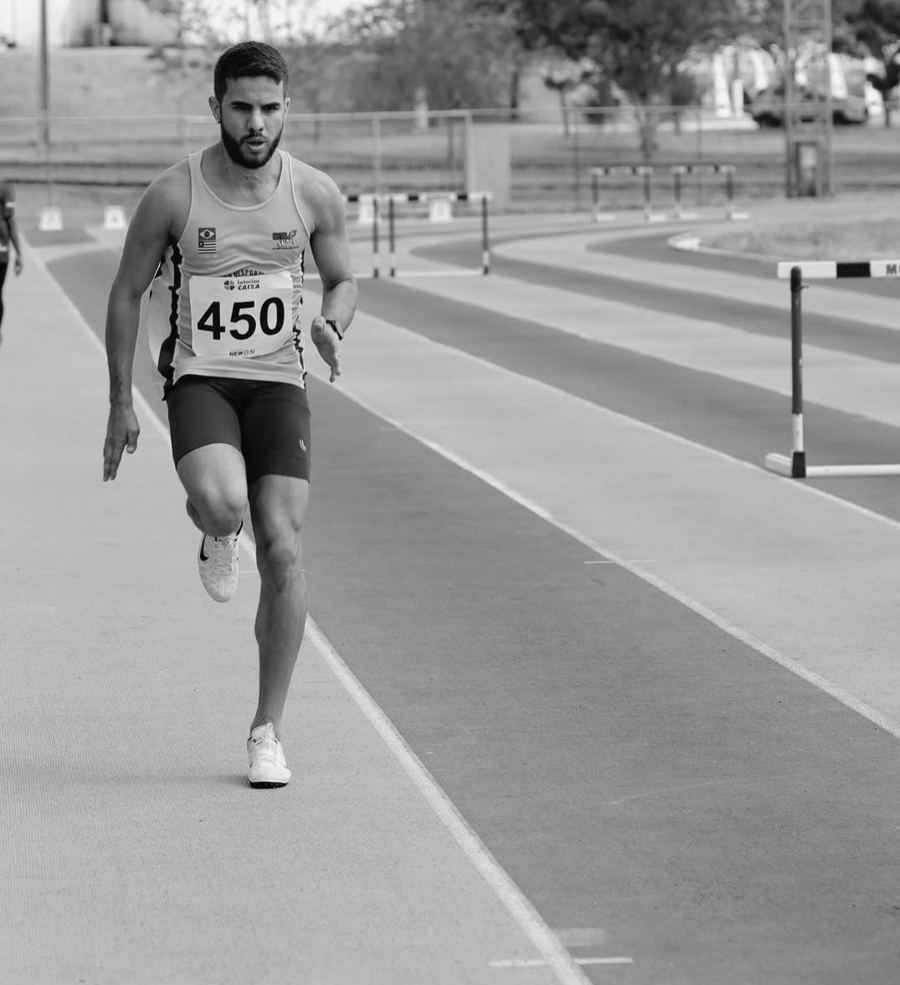
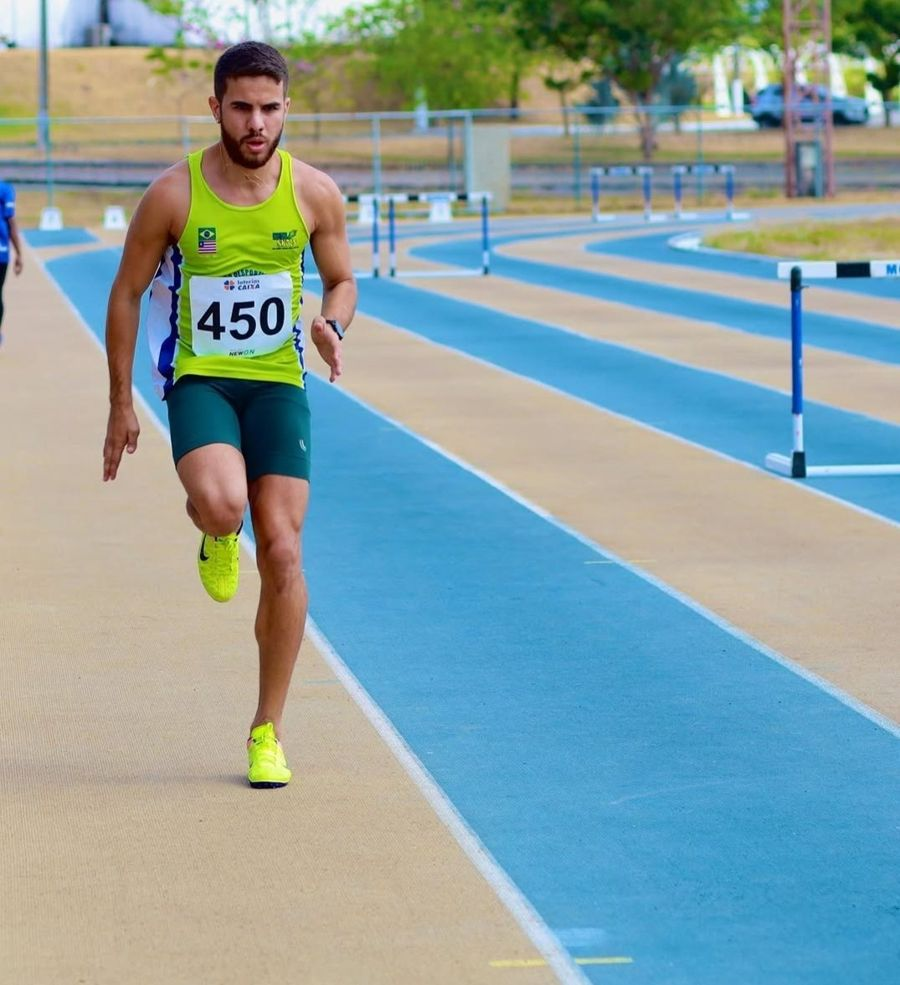
Pré-temporada 2027 em página própria (/pretemporada) no visual do site; removida da página inicial
Claude-Session: https://claude.ai/code/session_01Kib4ttyf7J1XtpYniU8jBV

diff --git a/pretemporada/index.html b/pretemporada/index.html
@@ -1,0 +1,223 @@
+<!doctype html>
+<html lang="pt-BR">
+<head>
+<meta charset="utf-8">
+<meta name="viewport" content="width=device-width, initial-scale=1">
+<title>Pré-temporada Nexos 2027 · Nexos Performance e Saúde</title>
+<meta name="description" content="Pré-temporada Nexos 2027: Bloco de Transição e Base Aeróbica. Início em 1º de janeiro, 8 semanas. Vagas limitadas.">
+<meta name="theme-color" content="#050c1c">
+<meta property="og:type" content="website">
+<meta property="og:title" content="Pré-temporada Nexos 2027">
+<meta property="og:description" content="Bloco de Transição e Base Aeróbica. Início em 1º de janeiro, 8 semanas. Vagas limitadas.">
+<meta property="og:image" content="https://nexosperformanceesaude.com.br/img/pretemporada-og.jpg">
+<link rel="icon" href="/img/nexos-icon-navy.png">
+<link rel="preload" href="/fonts/manrope-latin-400-normal.woff2" as="font" type="font/woff2" crossorigin>
+<link rel="preload" href="/fonts/unbounded-latin-800-normal.woff2" as="font" type="font/woff2" crossorigin>
+<link rel="stylesheet" href="/fonts/fonts.css">
+<link rel="stylesheet" href="/style.css">
+<script>try{var t=localStorage.getItem("nexos-tema");if(t)document.documentElement.dataset.theme=t}catch(e){}</script>
+<style>
+.nav-r{display:flex;align-items:center;gap:10px}
+.theme-btn{width:40px;height:40px;border-radius:12px;border:1px solid var(--line);display:grid;place-items:center}
+.theme-btn svg{width:18px;height:18px}
+.theme-btn .sun{display:none}
+:root[data-theme="light"] .theme-btn .sun{display:block}
+:root[data-theme="light"] .theme-btn .moon{display:none}
+
+.pt-hero{position:relative;min-height:100svh;display:grid;grid-template-columns:1.15fr .85fr;gap:clamp(28px,5vw,64px);align-items:center;padding:120px clamp(16px,6vw,80px) 80px;overflow:hidden;isolation:isolate}
+.pt-hero h1{font-size:clamp(1.7rem,7.2vw,4.4rem);white-space:nowrap}
+@media (min-width:961px){.pt-hero h1{font-size:clamp(2.4rem,4.3vw,4.4rem)}}
+.pt-hero .lead b{color:var(--ink);font-weight:700}
+.pt-info{display:flex;gap:10px;margin-top:34px;flex-wrap:wrap}
+.pt-info .tele b{font-size:1.25rem}
+.pt-garmin{display:flex;align-items:center;gap:12px;margin-top:26px;color:var(--mute);font-size:.82rem}
+.pt-garmin img{height:34px;width:auto}
+.pt-foto{position:relative;border-radius:28px;overflow:hidden;border:1px solid var(--line);aspect-ratio:4/5;box-shadow:0 40px 90px -30px rgba(0,0,0,.6)}
+.pt-foto img{width:100%;height:100%;object-fit:cover;object-position:28% 20%}
+.pt-foto::after{content:"";position:absolute;inset:0;background:linear-gradient(180deg,transparent 45%,rgba(var(--bg-rgb),.85) 100%)}
+.pt-selo{position:absolute;left:18px;right:18px;bottom:18px;z-index:1;display:flex;justify-content:space-between;align-items:flex-end;gap:12px}
+.pt-selo small{display:block;font-family:var(--f-m);font-size:.66rem;letter-spacing:.12em;color:var(--mute);text-transform:uppercase}
+.pt-selo b{font-family:var(--f-h);font-size:1.05rem;color:var(--ink)}
+.pt-selo .vg{font-family:var(--f-m);font-size:.72rem;letter-spacing:.08em;padding:7px 12px;border-radius:999px;border:1px solid rgba(var(--acc-rgb),.5);color:var(--acc);background:rgba(var(--bg-rgb),.6);white-space:nowrap}
+
+.pt-grid{display:grid;grid-template-columns:repeat(3,1fr);gap:16px}
+.pt-it{border:1px solid var(--line);border-radius:22px;padding:26px 24px;background:var(--card);backdrop-filter:blur(8px);transition:border-color .25s,transform .25s}
+.pt-it:hover{border-color:rgba(var(--acc-rgb),.45);transform:translateY(-3px)}
+.pt-ic{width:48px;height:48px;border-radius:14px;display:grid;place-items:center;color:var(--acc);background:rgba(var(--acc-rgb),.1);border:1px solid rgba(var(--acc-rgb),.25);margin-bottom:18px}
+.pt-ic svg{width:24px;height:24px}
+.pt-it h3{font-family:var(--f-h);font-weight:700;font-size:1.02rem;line-height:1.3;margin-bottom:8px}
+.pt-it p{color:var(--mute);font-size:.95rem}
+.pt-mais{border-style:dashed;background:transparent;display:flex;flex-direction:column;justify-content:center;align-items:flex-start}
+.pt-mais h3{font-family:var(--f-h);font-size:1.4rem;color:var(--acc)}
+:root[data-theme="light"] .pt-it:not(.pt-mais){box-shadow:0 10px 40px rgba(11,35,82,.07)}
+
+.pt-passos{display:grid;grid-template-columns:repeat(4,1fr);gap:16px;counter-reset:p}
+.pt-p{position:relative;padding:26px 22px 24px;border-top:2px solid var(--line)}
+.pt-p::before{content:"";position:absolute;left:0;top:-2px;width:46px;height:2px;background:linear-gradient(90deg,var(--acc),var(--acc2));box-shadow:0 0 12px rgba(var(--acc-rgb),.6)}
+.pt-p .num{font-family:var(--f-m);font-size:.8rem;color:var(--acc);letter-spacing:.1em}
+.pt-p h4{font-family:var(--f-h);font-size:1.05rem;margin:10px 0 6px}
+.pt-p p{color:var(--mute);font-size:.95rem}
+
+.pt-tr{display:grid;grid-template-columns:repeat(2,minmax(0,320px));gap:18px;justify-content:start}
+.pt-t{display:flex;align-items:center;gap:16px;border:1px solid var(--line);border-radius:20px;padding:14px;background:var(--card)}
+.pt-t img{width:64px;height:64px;border-radius:50%;object-fit:cover;border:2px solid rgba(var(--acc-rgb),.5)}
+.pt-t b{display:block;font-family:var(--f-h);font-size:.98rem}
+.pt-t small{color:var(--mute)}
+.pt-tr-link{display:inline-block;margin-top:22px;color:var(--acc);font-weight:700}
+
+.pt-final .lead{margin:0 auto}
+.pt-obs{margin-top:16px;color:var(--mute);font-size:.88rem}
+.pt-zap svg{width:20px;height:20px}
+
+@media (max-width:960px){
+  .pt-hero{grid-template-columns:1fr;padding-top:100px}
+  .pt-foto{max-width:460px;aspect-ratio:5/4}
+  .pt-grid{grid-template-columns:repeat(2,1fr)}
+  .pt-passos{grid-template-columns:repeat(2,1fr)}
+}
+@media (max-width:600px){
+  .pt-grid,.pt-passos,.pt-tr{grid-template-columns:1fr}
+  .pt-info .tele{flex:1;min-width:0}
+  .pt-hero .hero-cta .btn{width:100%}
+  .pt-hero .eyebrow{font-size:.66rem;letter-spacing:.05em}
+  .pt-info .tele{padding:10px 12px}
+  .pt-info .tele em{display:block;margin:0}
+}
+</style>
+</head>
+<body>
+<div class="progress" id="progress"></div>
+
+<header class="nav" id="nav">
+  <a href="/" class="brand"><img src="/img/nexos-icon.png" data-logo="nexos-icon" alt=""><span>NEXOS</span></a>
+  <div class="nav-r">
+    <button class="theme-btn" id="theme-btn" aria-label="Trocar tema claro/escuro" title="Trocar cores">
+      <svg class="moon" viewBox="0 0 24 24" fill="none" stroke="currentColor" stroke-width="2" stroke-linecap="round" stroke-linejoin="round"><path d="M21 12.8A9 9 0 1 1 11.2 3a7 7 0 0 0 9.8 9.8z"/></svg>
+      <svg class="sun" viewBox="0 0 24 24" fill="none" stroke="currentColor" stroke-width="2" stroke-linecap="round"><circle cx="12" cy="12" r="4"/><path d="M12 2v2M12 20v2M4.9 4.9l1.4 1.4M17.7 17.7l1.4 1.4M2 12h2M20 12h2M4.9 19.1l1.4-1.4M17.7 6.3l1.4-1.4"/></svg>
+    </button>
+    <a class="btn btn-sm zap" target="_blank" rel="noopener">Quero participar</a>
+  </div>
+</header>
+
+<main>
+<section class="pt-hero">
+  <div class="hero-grid"></div>
+  <div>
+    <p class="eyebrow reveal"><span class="dot"></span>Inscrições abertas · Vagas limitadas</p>
+    <h1 class="reveal"><span class="line">PRÉ&#8209;TEMPORADA</span><span class="line accent">NEXOS 2027</span></h1>
+    <p class="lead reveal"><b>Bloco de Transição e Base Aeróbica.</b> Novo ano, nova temporada. É agora que ela se constrói.</p>
+    <div class="hero-cta reveal">
+      <a class="btn zap pt-zap" target="_blank" rel="noopener"><svg viewBox="0 0 24 24" fill="currentColor" aria-hidden="true"><path d="M12 2a10 10 0 0 0-8.6 15.1L2 22l5-1.3A10 10 0 1 0 12 2zm0 18.2c-1.5 0-3-.4-4.3-1.2l-.3-.2-3 .8.8-2.9-.2-.3A8.2 8.2 0 1 1 12 20.2zm4.5-6.1c-.2-.1-1.5-.7-1.7-.8-.2-.1-.4-.1-.6.1l-.8 1c-.1.2-.3.2-.5.1a6.7 6.7 0 0 1-3.3-2.9c-.2-.4.2-.4.7-1.3.1-.2 0-.3 0-.4l-.8-1.8c-.2-.5-.4-.4-.6-.4h-.5c-.2 0-.4.1-.7.3-.2.3-.9.9-.9 2.2s.9 2.5 1 2.7c.1.2 1.8 2.8 4.5 3.9 1.7.7 2.3.8 3.2.6.5-.1 1.5-.6 1.7-1.2.2-.6.2-1.1.2-1.2-.1-.1-.3-.2-.5-.3z"/></svg>Quero saber os valores</a>
+      <a href="#incluso" class="btn btn-ghost">O que está incluso</a>
+    </div>
+    <div class="pt-info reveal">
+      <div class="tele"><small>INÍCIO</small><b>01/01</b><em>2027</em></div>
+      <div class="tele"><small>DURAÇÃO</small><b>8</b><em>semanas</em></div>
+      <div class="tele"><small>FORMATO</small><b>Online</b><em>no app</em></div>
+    </div>
+    <div class="pt-garmin reveal"><img src="/img/marcas/works-with-garmin-connect.png" width="149" height="34" alt="Works with the app Garmin Connect"><span>Seus treinos chegam direto do relógio para o app Nexos.</span></div>
+  </div>
+  <figure class="pt-foto reveal">
+    <img src="/img/pretemporada.jpg" alt="Gabriel Vinícius, treinador da Nexos, correndo na pista" width="900" height="1200">
+    <figcaption class="pt-selo"><span><small>Temporada</small><b>2027 começa aqui</b></span><span class="vg">VAGAS LIMITADAS</span></figcaption>
+  </figure>
+</section>
+
+<section class="section alt" id="incluso">
+  <div class="sec-head reveal">
+    <p class="tag">01 / O que está incluso</p>
+    <h2>Oito semanas.<br>Acompanhamento completo.</h2>
+  </div>
+  <div class="pt-grid">
+    <article class="pt-it reveal"><div class="pt-ic"><svg viewBox="0 0 24 24" fill="none" stroke="currentColor" stroke-width="2" stroke-linecap="round" stroke-linejoin="round"><path d="M9 11l3 3 8-8"/><path d="M20 12v6a2 2 0 0 1-2 2H6a2 2 0 0 1-2-2V6a2 2 0 0 1 2-2h9"/></svg></div><h3>Avaliação de entrada e de saída</h3><p>Você começa e termina com números. A evolução fica medida, não no achismo.</p></article>
+    <article class="pt-it reveal"><div class="pt-ic"><svg viewBox="0 0 24 24" fill="none" stroke="currentColor" stroke-width="2" stroke-linecap="round" stroke-linejoin="round"><path d="M3 12h4l3-8 4 16 3-8h4"/></svg></div><h3>Planilha individualizada</h3><p>Construída pelas suas zonas de treino e entregue no app Nexos.</p></article>
+    <article class="pt-it reveal"><div class="pt-ic"><svg viewBox="0 0 24 24" fill="none" stroke="currentColor" stroke-width="2" stroke-linecap="round" stroke-linejoin="round"><path d="M6.5 6.5v11M17.5 6.5v11M3 9v6M21 9v6M6.5 12h11"/></svg></div><h3>Treino de força</h3><p>Para prevenir lesões e sustentar a temporada que vem pela frente.</p></article>
+    <article class="pt-it reveal"><div class="pt-ic"><svg viewBox="0 0 24 24" fill="none" stroke="currentColor" stroke-width="2" stroke-linecap="round" stroke-linejoin="round"><path d="M21 15a2 2 0 0 1-2 2H7l-4 4V5a2 2 0 0 1 2-2h14a2 2 0 0 1 2 2z"/><path d="M8 9h8M8 13h5"/></svg></div><h3>Análise de cada treino</h3><p>Cada sessão analisada, com retorno direto do treinador.</p></article>
+    <article class="pt-it reveal"><div class="pt-ic"><svg viewBox="0 0 24 24" fill="none" stroke="currentColor" stroke-width="2" stroke-linecap="round" stroke-linejoin="round"><rect x="2" y="6" width="14" height="12" rx="2"/><path d="M16 10l6-3v10l-6-3"/></svg></div><h3>3 videochamadas por mês</h3><p>Conversa com o treinador para alinhar e ajustar o plano.</p></article>
+    <article class="pt-it reveal"><div class="pt-ic"><svg viewBox="0 0 24 24" fill="none" stroke="currentColor" stroke-width="2" stroke-linecap="round" stroke-linejoin="round"><path d="M3 3v18h18"/><path d="M7 15l4-4 3 3 5-6"/></svg></div><h3>Relatório de evolução</h3><p>E o planejamento da sua temporada 2027.</p></article>
+  </div>
+  <div class="pt-grid" style="margin-top:16px;grid-template-columns:1fr"><article class="pt-it pt-mais reveal"><h3>e muito mais...</h3><p>Os detalhes você recebe na conversa com a equipe.</p></article></div>
+</section>
+
+<section class="section" id="como">
+  <div class="sec-head reveal">
+    <p class="tag">02 / Como funciona</p>
+    <h2>Do primeiro contato<br>à temporada 2027.</h2>
+  </div>
+  <div class="pt-passos">
+    <div class="pt-p reveal"><span class="num">01</span><h4>Garanta sua vaga</h4><p>Chame a equipe no WhatsApp para ver valores e disponibilidade.</p></div>
+    <div class="pt-p reveal"><span class="num">02</span><h4>Avaliação de entrada</h4><p>O ponto de partida que define o seu plano.</p></div>
+    <div class="pt-p reveal"><span class="num">03</span><h4>8 semanas no app</h4><p>Treinos, análises e videochamadas a partir de 1º de janeiro.</p></div>
+    <div class="pt-p reveal"><span class="num">04</span><h4>Saída e planejamento</h4><p>Nova avaliação, relatório de evolução e a temporada planejada.</p></div>
+  </div>
+</section>
+
+<section class="section alt" id="treinadores">
+  <div class="sec-head reveal">
+    <p class="tag">03 / Treinadores</p>
+    <h2>Quem acompanha você.</h2>
+  </div>
+  <div class="pt-tr">
+    <div class="pt-t reveal"><img src="/img/treinadores/gabriel-avatar.jpg" alt="" width="64" height="64"><span><b>Gabriel Vinícius</b><small>Treinador · Nexos</small></span></div>
+    <div class="pt-t reveal"><img src="/img/treinadores/orlando-avatar.jpg" alt="" width="64" height="64"><span><b>Orlando Borges</b><small>Treinador · Nexos</small></span></div>
+  </div>
+  <a href="/#treinadores" class="pt-tr-link reveal">Conheça a trajetória dos treinadores →</a>
+</section>
+
+<section class="cta-final pt-final">
+  <div class="cta-inner reveal">
+    <p class="tag">Vagas limitadas</p>
+    <h2>Comece 2027<br>com base.</h2>
+    <div class="hero-cta center">
+      <a class="btn zap pt-zap" target="_blank" rel="noopener"><svg viewBox="0 0 24 24" fill="currentColor" aria-hidden="true"><path d="M12 2a10 10 0 0 0-8.6 15.1L2 22l5-1.3A10 10 0 1 0 12 2zm0 18.2c-1.5 0-3-.4-4.3-1.2l-.3-.2-3 .8.8-2.9-.2-.3A8.2 8.2 0 1 1 12 20.2zm4.5-6.1c-.2-.1-1.5-.7-1.7-.8-.2-.1-.4-.1-.6.1l-.8 1c-.1.2-.3.2-.5.1a6.7 6.7 0 0 1-3.3-2.9c-.2-.4.2-.4.7-1.3.1-.2 0-.3 0-.4l-.8-1.8c-.2-.5-.4-.4-.6-.4h-.5c-.2 0-.4.1-.7.3-.2.3-.9.9-.9 2.2s.9 2.5 1 2.7c.1.2 1.8 2.8 4.5 3.9 1.7.7 2.3.8 3.2.6.5-.1 1.5-.6 1.7-1.2.2-.6.2-1.1.2-1.2-.1-.1-.3-.2-.5-.3z"/></svg>Quero saber os valores</a>
+    </div>
+    <p class="pt-obs">Valores e condições pelo WhatsApp.</p>
+  </div>
+</section>
+</main>
+
+<footer class="footer">
+  <img src="/img/nexos-icon.png" data-logo="nexos-icon" alt="">
+  <p>© <span id="year"></span> Nexos Performance e Saúde · São Luís – MA</p>
+  <p><a href="/" class="footer-app">Conheça a Nexos →</a></p>
+  <p class="dev">Desenvolvido por <a href="https://www.instagram.com/gabriel_vinicius_jj/" target="_blank" rel="noopener">@gabriel_vinicius_jj</a></p>
+</footer>
+
+<script>
+(function () {
+  // número do WhatsApp da Nexos: DDI+DDD+número, só dígitos (o mesmo do site principal)
+  var WHATS = '5598900000000';
+  var MSG = 'Olá! Vi a Pré-temporada Nexos 2027 no site e quero saber os valores e as vagas.';
+  document.querySelectorAll('.zap').forEach(function (a) { a.href = 'https://wa.me/' + WHATS + '?text=' + encodeURIComponent(MSG); });
+  document.getElementById('year').textContent = new Date().getFullYear();
+
+  var root = document.documentElement;
+  function logos() {
+    var light = root.dataset.theme === 'light';
+    document.querySelectorAll('[data-logo]').forEach(function (i) { i.src = '/img/' + i.dataset.logo + (light ? '-navy' : '') + '.png'; });
+    document.querySelector('meta[name=theme-color]').content = light ? '#f5f7fc' : '#050c1c';
+  }
+  logos();
+  document.getElementById('theme-btn').addEventListener('click', function () {
+    root.dataset.theme = root.dataset.theme === 'light' ? 'dark' : 'light';
+    try { localStorage.setItem('nexos-tema', root.dataset.theme); } catch (e) {}
+    logos();
+  });
+
+  var nav = document.getElementById('nav'), bar = document.getElementById('progress');
+  function rolar() {
+    nav.classList.toggle('scrolled', scrollY > 20);
+    var h = document.documentElement.scrollHeight - innerHeight;
+    bar.style.width = (h > 0 ? scrollY / h * 100 : 0) + '%';
+  }
+  addEventListener('scroll', rolar, { passive: true }); rolar();
+
+  var els = document.querySelectorAll('.reveal');
+  if ('IntersectionObserver' in window) {
+    var io = new IntersectionObserver(function (es) { es.forEach(function (e) { if (e.isIntersecting) { e.target.classList.add('in'); io.unobserve(e.target); } }); }, { threshold: .12 });
+    els.forEach(function (el, i) { el.style.transitionDelay = (i % 4) * 70 + 'ms'; io.observe(el); });
+  } else els.forEach(function (el) { el.classList.add('in'); });
+})();
+</script>
+</body>
+</html>

diff --git a/index.html b/index.html
@@ -53,7 +53,6 @@
   <nav class="links" id="links">
     <a href="#contato" class="btn btn-sm">Seja aluno</a>
     <a href="app/" class="nav-app"><svg viewBox="0 0 24 24" width="16" height="16" fill="none" stroke="currentColor" stroke-width="2.2" stroke-linecap="round" stroke-linejoin="round" aria-hidden="true"><circle cx="12" cy="8" r="4"/><path d="M4 21c1.5-4 4.5-6 8-6s6.5 2 8 6"/></svg>Entrar como aluno</a>
-    <a href="#pretemporada" class="nav-pt">Pré-temporada 2027</a>
     <a href="#modalidades">Modalidades</a>
     <a href="#metodo">Método</a>
     <a href="#treinadores">Treinadores</a>
@@ -112,24 +111,6 @@
     <span>CORRIDA</span><i class="tk-logo"><img src="img/nexos-icon.png" data-logo="nexos-icon" alt=""></i><span>MUSCULAÇÃO</span><i class="tk-logo"><img src="img/nexos-icon.png" data-logo="nexos-icon" alt=""></i><span>FUNCIONAL</span><i class="tk-logo"><img src="img/nexos-icon.png" data-logo="nexos-icon" alt=""></i><span>PERFORMANCE</span><i class="tk-logo"><img src="img/nexos-icon.png" data-logo="nexos-icon" alt=""></i><span>SAÚDE</span><i class="tk-logo"><img src="img/nexos-icon.png" data-logo="nexos-icon" alt=""></i>
   </div>
 </div>
-
-<!-- PRÉ-TEMPORADA 2027 -->
-<section class="section pt-sec" id="pretemporada">
-  <div class="pt-card reveal">
-    <img class="pt-foto" src="img/pretemporada.jpg" alt="" loading="lazy" width="900" height="1200">
-    <div class="pt-txt">
-      <p class="pt-eb"><span></span>Vagas limitadas</p>
-      <h2 class="pt-tit">Pré&#8209;temporada<br>Nexos 2027</h2>
-      <p class="pt-sub">Bloco de Transição e Base Aeróbica</p>
-      <p class="pt-quando">Início 1º de janeiro · 8 semanas</p>
-      <p class="pt-frase">Novo ano, nova temporada. É agora que ela se constrói.</p>
-      <ul class="pt-lista"><li><span class="pt-ck"><svg viewBox="0 0 24 24" width="16" height="16" fill="none" stroke="currentColor" stroke-width="2.6" stroke-linecap="round" stroke-linejoin="round" aria-hidden="true"><path d="M20 6 9 17l-5-5"/></svg></span>Avaliação de entrada e de saída</li><li><span class="pt-ck"><svg viewBox="0 0 24 24" width="16" height="16" fill="none" stroke="currentColor" stroke-width="2.6" stroke-linecap="round" stroke-linejoin="round" aria-hidden="true"><path d="M20 6 9 17l-5-5"/></svg></span>Planilha individualizada pelas suas zonas</li><li><span class="pt-ck"><svg viewBox="0 0 24 24" width="16" height="16" fill="none" stroke="currentColor" stroke-width="2.6" stroke-linecap="round" stroke-linejoin="round" aria-hidden="true"><path d="M20 6 9 17l-5-5"/></svg></span>Treino de força para prevenir lesões</li><li><span class="pt-ck"><svg viewBox="0 0 24 24" width="16" height="16" fill="none" stroke="currentColor" stroke-width="2.6" stroke-linecap="round" stroke-linejoin="round" aria-hidden="true"><path d="M20 6 9 17l-5-5"/></svg></span>Análise de cada treino e retorno do treinador</li><li><span class="pt-ck"><svg viewBox="0 0 24 24" width="16" height="16" fill="none" stroke="currentColor" stroke-width="2.6" stroke-linecap="round" stroke-linejoin="round" aria-hidden="true"><path d="M20 6 9 17l-5-5"/></svg></span>3 videochamadas por mês com o treinador</li><li><span class="pt-ck"><svg viewBox="0 0 24 24" width="16" height="16" fill="none" stroke="currentColor" stroke-width="2.6" stroke-linecap="round" stroke-linejoin="round" aria-hidden="true"><path d="M20 6 9 17l-5-5"/></svg></span>Relatório de evolução e planejamento da temporada</li><li class="pt-mais">e muito mais...</li></ul>
-      <a class="pt-btn" id="pt-zap" target="_blank" rel="noopener"><svg viewBox="0 0 24 24" width="20" height="20" fill="currentColor" aria-hidden="true"><path d="M12 2a10 10 0 0 0-8.6 15.1L2 22l5-1.3A10 10 0 1 0 12 2zm0 18.2c-1.5 0-3-.4-4.3-1.2l-.3-.2-3 .8.8-2.9-.2-.3A8.2 8.2 0 1 1 12 20.2zm4.5-6.1c-.2-.1-1.5-.7-1.7-.8-.2-.1-.4-.1-.6.1l-.8 1c-.1.2-.3.2-.5.1a6.7 6.7 0 0 1-3.3-2.9c-.2-.4.2-.4.7-1.3.1-.2 0-.3 0-.4l-.8-1.8c-.2-.5-.4-.4-.6-.4h-.5c-.2 0-.4.1-.7.3-.2.3-.9.9-.9 2.2s.9 2.5 1 2.7c.1.2 1.8 2.8 4.5 3.9 1.7.7 2.3.8 3.2.6.5-.1 1.5-.6 1.7-1.2.2-.6.2-1.1.2-1.2-.1-.1-.3-.2-.5-.3z"/></svg>Quero saber os valores</a>
-      <p class="pt-obs">Valores e vagas pelo WhatsApp.</p>
-    </div>
-    <svg class="pt-sl" width="96" height="36" viewBox="0 0 160 58" aria-hidden="true"><g fill="none" stroke="#fff" stroke-width="3.5" stroke-linejoin="round"><path d="M18 56 L40 2 L62 2 L40 56 Z"/><path d="M66 56 L88 2 L110 2 L88 56 Z"/><path d="M114 56 L136 2 L158 2 L136 56 Z"/></g></svg>
-  </div>
-</section>
 
 <!-- MODALIDADES -->
 <section class="section" id="modalidades">

diff --git a/style.css b/style.css
@@ -635,31 +635,3 @@ body,.nav,.panel,.tele,.wk-card,.booking,.faq details,.lab-in,.lab-out{transitio
   .links{background:var(--bg);backdrop-filter:none;-webkit-backdrop-filter:none;height:100vh;height:100dvh}
 }
 
-/* ===== Pré-temporada 2027 (campanha, mesmo visual do Instagram) ===== */
-.pt-sec{padding-top:clamp(56px,8vw,96px);padding-bottom:clamp(40px,6vw,72px)}
-.pt-card{position:relative;max-width:1080px;margin:0 auto;border-radius:0 0 48px 48px;overflow:hidden;isolation:isolate;color:#fff;
-  background:linear-gradient(180deg,#3c62a3 0%,#2c5291 60%,#23477f 100%);padding:clamp(36px,6vw,72px) clamp(22px,6vw,72px) clamp(40px,6vw,64px);box-shadow:0 30px 80px -30px rgba(10,25,60,.6)}
-.pt-card::before{content:"";position:absolute;inset:0 clamp(10px,2vw,22px) clamp(10px,2vw,22px);border:2px solid rgba(255,255,255,.85);border-top:none;border-radius:0 0 40px 40px;pointer-events:none;z-index:2}
-.pt-foto{position:absolute;right:-4%;top:0;height:100%;width:58%;object-fit:cover;object-position:20% 25%;mix-blend-mode:multiply;filter:contrast(1.35);opacity:.95;z-index:-1;
-  -webkit-mask-image:linear-gradient(90deg,transparent 0%,#000 45%);mask-image:linear-gradient(90deg,transparent 0%,#000 45%)}
-.pt-txt{position:relative;max-width:620px}
-.pt-eb{display:flex;align-items:center;gap:14px;font-family:'Lexend Exa',var(--f-m);font-size:.78rem;letter-spacing:.32em;text-transform:uppercase}
-.pt-eb span{width:40px;height:2px;background:#fff}
-.pt-tit{margin-top:18px;font-family:'Lexend Exa',var(--f-h);font-weight:300;font-size:clamp(2.1rem,5.6vw,3.9rem);line-height:1.08;letter-spacing:-.02em;text-transform:none;color:#fff}
-.pt-sub{margin-top:14px;font-size:clamp(1.05rem,2.2vw,1.3rem);font-weight:500;color:rgba(255,255,255,.92)}
-.pt-quando{margin-top:6px;font-family:'Lexend Exa',var(--f-m);font-size:.78rem;letter-spacing:.22em;text-transform:uppercase;color:rgba(255,255,255,.85)}
-.pt-frase{margin-top:18px;color:rgba(255,255,255,.86)}
-.pt-lista{list-style:none;margin:22px 0 28px;padding:0}
-.pt-lista li{display:flex;align-items:center;gap:14px;padding:12px 0;border-top:1.5px solid rgba(255,255,255,.28);font-weight:500}
-.pt-ck{flex:none;width:30px;height:30px;border-radius:50%;border:2px solid #fff;display:grid;place-items:center}
-.pt-lista .pt-mais{padding-left:44px;font-style:italic;font-weight:400;color:rgba(255,255,255,.85)}
-.pt-btn{display:inline-flex;align-items:center;gap:10px;padding:16px 30px;border-radius:999px;background:#fff;color:#23477f;font-weight:700;font-size:1.05rem;transition:transform .2s,box-shadow .2s}
-.pt-btn:hover{transform:translateY(-2px);box-shadow:0 12px 30px -10px rgba(0,0,0,.45)}
-.pt-obs{margin-top:12px;font-size:.92rem;color:rgba(255,255,255,.8)}
-.pt-sl{position:absolute;right:clamp(30px,6vw,72px);bottom:clamp(34px,5vw,56px);z-index:2}
-.nav-pt{color:var(--acc)!important;font-weight:700}
-@media (max-width:720px){
-  .pt-foto{width:100%;height:46%;right:0;opacity:.55;-webkit-mask-image:linear-gradient(180deg,#000 0%,transparent 100%);mask-image:linear-gradient(180deg,#000 0%,transparent 100%)}
-  .pt-sl{display:none}
-  .pt-quando{letter-spacing:.12em;font-size:.72rem}
-}

diff --git a/script.js b/script.js
@@ -489,6 +489,3 @@ $('#lightbox').addEventListener('touchend', e => { const d = e.changedTouches[0]
   requestAnimationFrame(tick);
 })();
 
-// Pré-temporada 2027: abre o WhatsApp já perguntando sobre os valores
-const ptZap = document.getElementById('pt-zap');
-if (ptZap) ptZap.href = `https://wa.me/${CONFIG.whatsapp}?text=${encodeURIComponent('Olá! Vi no site a Pré-temporada Nexos 2027 e quero saber os valores e as vagas.')}`;
